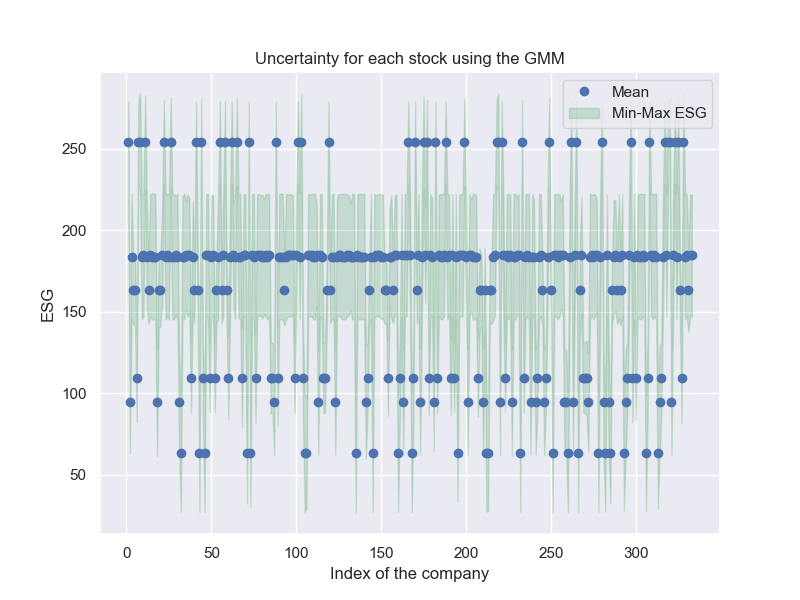
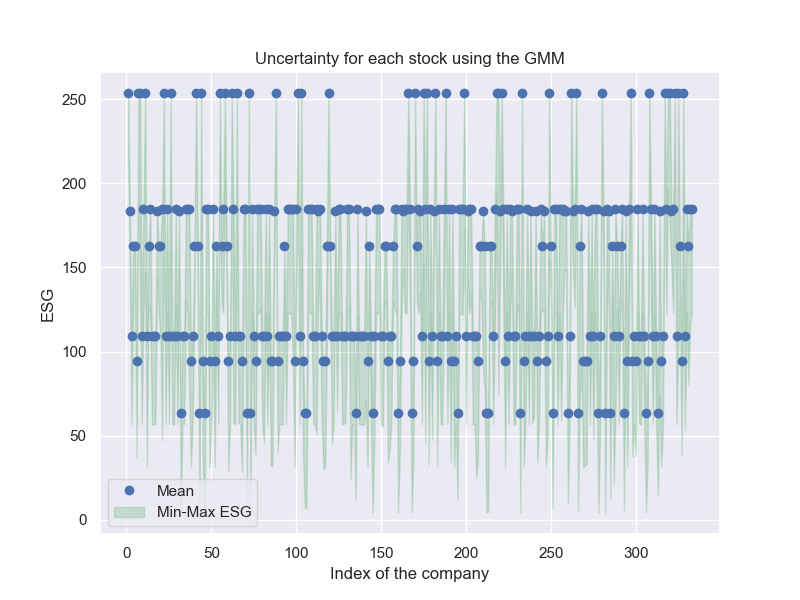
Fixed uncertainty

diff --git a/ScoreMaker.py b/ScoreMaker.py
@@ -199,20 +199,16 @@ class ScoreMaker:
 
         index = [label_mapping[i] for i in range(7)]
         
-        def goal(rank, weights, means, stds):
-            res = alpha-1
-            for k in range(len(weights)):
-                res += weights[k] * norm.cdf(rank, means[k], stds[k])
-            return(res)
+        def goal(x, weights, means, stds):
+            return sum(weights * norm.cdf(x, means, stds)) + alpha - 1
         
-        def goal_deriv(rank, weights, means, std):
-            res = 0
-            for k in range(len(weights)):
-                res += weights[k] * norm.pdf(rank, means[k], stds[k])
-            return(res)
+        def goal_deriv(x, weights, means, stds):
+            return sum(weights * norm.pdf(x, means, stds))
         
-        means = self.rank_stats.reindex(index = index)["mean"]
-        stds = self.rank_stats.reindex(index = index)["cluster_std"]
+        
+        #CHANGE THIS TO GET THE CORRECT ORDER
+        means = self.rank_stats.sort_values(by = 'labels')["mean"]
+        stds = self.rank_stats.sort_values(by = 'labels')["cluster_std"]
         
         roots = []
         for n, i in enumerate(self.full_ranks.index):
@@ -225,15 +221,19 @@ class ScoreMaker:
                 #count +=1  
             weights = densities[n]
             
-            root = fsolve(goal, x0 = means[self.full_ranks['sorted_labels'].loc[i]], fprime = goal_deriv, args = (weights, means, stds), xtol = 1)
-            roots += [root[0]]
+            func = lambda rank: goal(rank, weights, means, stds)
+            deriv = lambda rank: [goal_deriv(rank, weights, means, stds)] # Need to return a list
+            
+            root = fsolve(func, x0 = means[self.full_ranks['sorted_labels'].loc[i]], fprime = deriv)
+            roots += [root[0]] # Fsolve returns a singleton
         return roots
     
     def score_uncertainty(self, full_scores, eta = 1):
-        mean_ranks = full_scores.groupby('labels').mean()
+        scores = full_scores.copy()
+        mean_ranks = scores.groupby('labels').mean()
         global_mean_ranks = mean_ranks.mean(axis = 1)
         global_mean_ranks = global_mean_ranks.sort_values()
-        
+
         sorted_labels = global_mean_ranks.index.tolist()  # Get the sorted cluster labels
         
         self.sorted_labels = sorted_labels
@@ -244,10 +244,10 @@ class ScoreMaker:
         reverse_mapping = {rank: label for rank, label in enumerate(sorted_labels)}
 
         # Map the labels in the original DataFrame according to the sorted order
-        full_scores['sorted_labels'] = full_scores['labels'].map(label_mapping)
+        scores['sorted_labels'] = scores['labels'].map(label_mapping)
         
         rank_stats = pd.DataFrame({'labels': global_mean_ranks.index, 'mean': global_mean_ranks.values})
-        rank_stats['labels'].map(label_mapping)     
+        #rank_stats['labels'].map(label_mapping)     
 
         covs = self.model.covariances_
         a = np.ones(4)/4
@@ -256,10 +256,10 @@ class ScoreMaker:
             clusters_std.append(np.sqrt(a.T.dot(covs[k]).dot(a)))
         rank_stats['cluster_std'] = clusters_std
 
-        self.full_ranks = full_scores
+        self.full_ranks = scores
         self.rank_stats = rank_stats
 
-        ESGTV = pd.DataFrame({'Tag':self.valid_tickers,'Score': full_scores['sorted_labels']})
+        ESGTV = pd.DataFrame({'Tag':self.valid_tickers,'Score': scores['sorted_labels']})
 
         ESGTV.dropna(inplace = True)
         
@@ -269,7 +269,7 @@ class ScoreMaker:
         for n, i in enumerate(ESGTV.index):
             count = 0
             left_incer, right_incer = 0, 0
-            k_star = self.full_ranks['sorted_labels'].loc[i]
+            k_star = self.full_ranks['labels'].loc[i]
             cond = self.rank_stats["labels"] == k_star
             mean_rank = self.rank_stats[cond]["mean"].values[0]
             mean_ranks += [mean_rank]
@@ -338,6 +338,7 @@ class ScoreMaker:
               
         self.ax.set_title('Uncertainty for each stock using the GMM')
         self.ax.set_xlabel('Index of the company')
+        #self.ax.set_xlabel('Sorted number of companies')
         self.ax.set_ylabel('ESG')
         self.ax.grid(True)
         

diff --git a/Test_Compute_Uncer.py b/Test_Compute_Uncer.py
@@ -64,3 +64,10 @@ load_GSM.plot_rank_uncer(tri_ranks, save = True)
 #%% CDF quantiles
 
 roots = load_GSM.quantiles_mixture()
+esg_95 = np.maximum(roots, np.zeros(len(roots)))
+
+load_GSM.plot_rank_uncer([esg_95, mean_ranks, mean_ranks])
+
+#list1, list2 = (list(t) for t in zip(*sorted(zip(esg_95, mean_ranks))))
+
+#load_GSM.plot_rank_uncer([list1, list2, list2])
